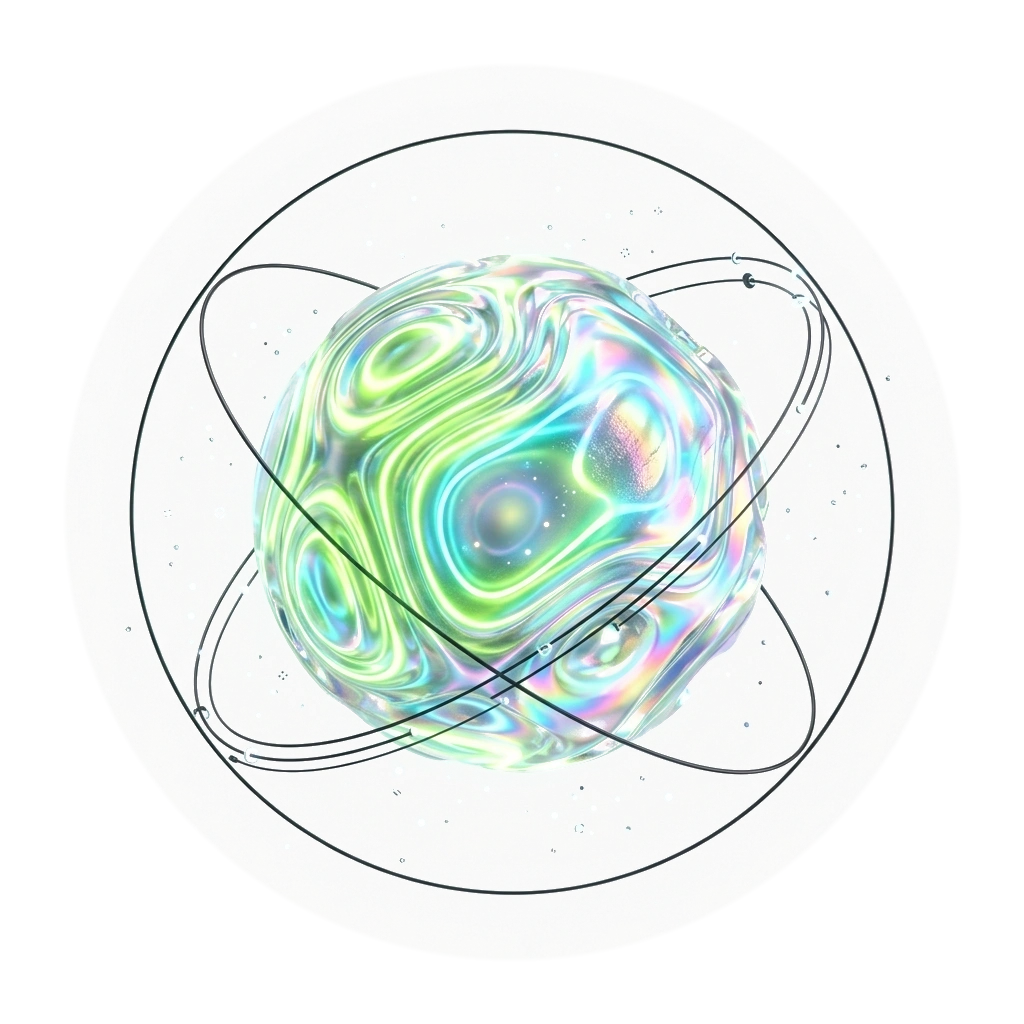
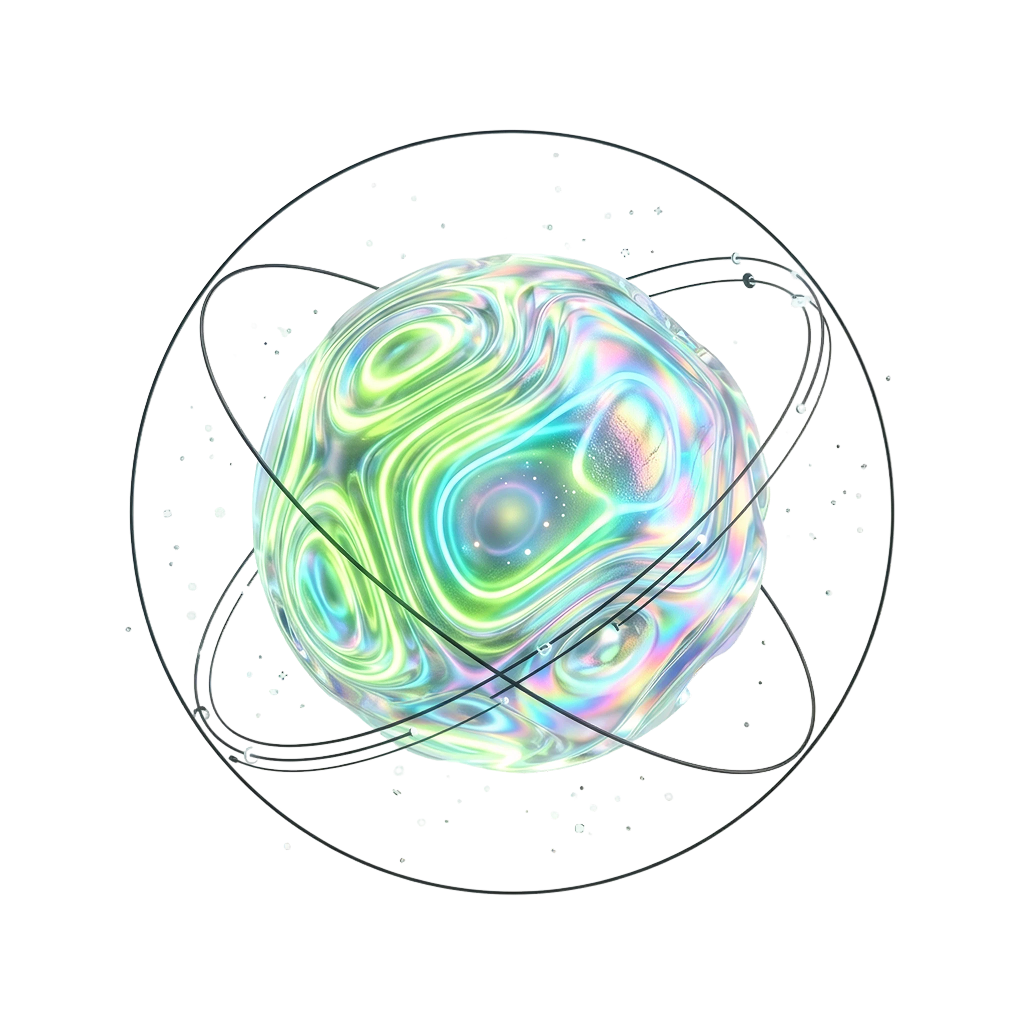
feat(hero): apply clean transparent cutout for 3D sound sphere, fix typography layering and eliminate glow haze

diff --git a/core/templates/landing.html b/core/templates/landing.html
@@ -164,7 +164,10 @@
         <!-- Center Stage: The Floating Iridescent Pearl Sphere with Orbital Ring -->
         <div class="relative w-full flex flex-col items-center justify-center min-h-[440px] sm:min-h-[560px] lg:min-h-[700px]">
             
-            <!-- GIGANTIC NEON-LIME HEADLINE (RESPONSIVE TYPOGRAPHY) -->
+            <!-- Ambient Stage Glow Behind Everything (z-0) -->
+            <div class="absolute top-1/2 left-1/2 -translate-x-1/2 -translate-y-1/2 size-[340px] sm:size-[480px] lg:size-[620px] bg-limeAccent/15 rounded-full blur-[100px] pointer-events-none z-0"></div>
+
+            <!-- GIGANTIC NEON-LIME HEADLINE (CRISP FOREGROUND LAYER z-10) -->
             <div class="relative z-10 select-none pointer-events-none w-full px-2">
                 <h1 class="gen-hero-title text-[13.5vw] sm:text-[13vw] lg:text-[12vw] tracking-tight leading-[0.88] block break-words sm:whitespace-nowrap">
                     TURN YOUR WORDS TO
@@ -174,18 +177,14 @@
                 </h1>
             </div>
 
-            <!-- THE 3D IRIDESCENT SOUND SPHERE (CENTER INTERACTION) -->
+            <!-- THE 3D IRIDESCENT SOUND SPHERE (PRISTINE FOREGROUND INTERACTION z-20) -->
             <div class="absolute top-1/2 left-1/2 -translate-x-1/2 -translate-y-1/2 z-20 pointer-events-auto orb-levitate cursor-pointer group">
-                
-                <!-- Gentle Radial Glow Behind Orb -->
-                <div class="absolute inset-0 bg-limeAccent/20 rounded-full blur-3xl glow-pulse -z-10"></div>
-                
                 <!-- The 3D Pearl Sphere Asset -->
                 <a href="https://lyraz.ir" class="relative size-60 sm:size-80 md:size-96 lg:size-[480px] flex items-center justify-center cursor-pointer block" title="Launch Lyraz Web Player">
                     <img 
                         src="/static/images/brand/lyraz_sound_orb.webp" 
                         alt="Lyraz Iridescent Sound Orb" 
-                        class="size-full object-contain drop-shadow-[0_25px_60px_rgba(0,0,0,0.12)] group-hover:scale-105 transition-transform duration-700"
+                        class="size-full object-contain drop-shadow-[0_20px_45px_rgba(0,0,0,0.14)] group-hover:scale-105 transition-transform duration-700"
                     >
                 </a>
             </div>
